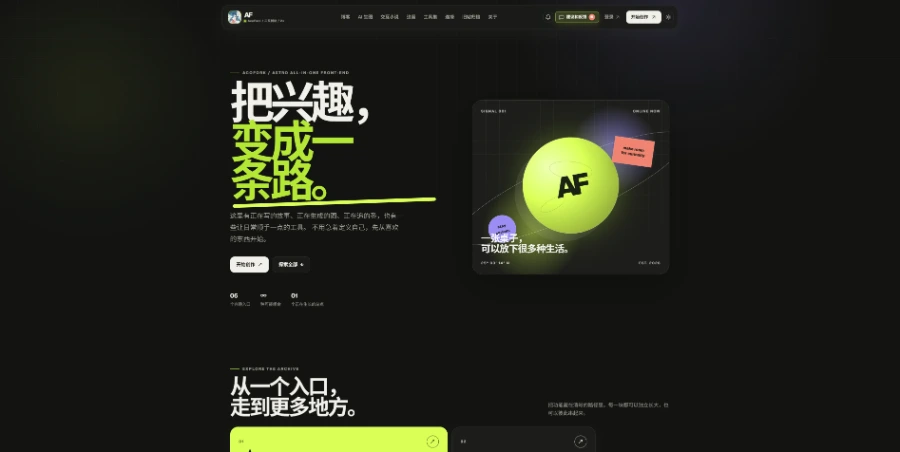
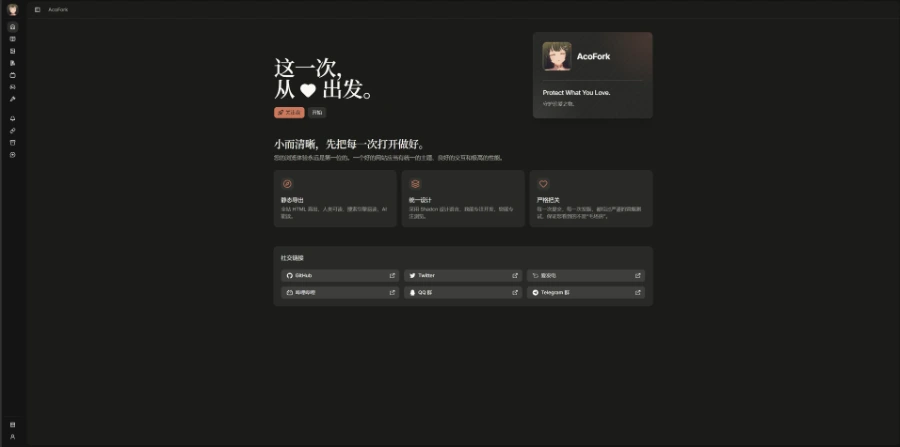
🤝 更新友链: vemiyの小站

diff --git a/src/config/friendsConfig.ts b/src/config/friendsConfig.ts
@@ -487,6 +487,16 @@ export const friendsConfig: FriendLink[] = [
 		weight: 5,
 		enabled: true,
 	},
+	{
+		title: "vemiyの小站",
+		imgurl: "https://www.vemiy.com/img/avatar.webp",
+		desc: "One more day.",
+		siteurl: "https://www.vemiy.com/",
+		image: "/assets/images/friends/vemiy.webp",
+		tags: ["Blog"],
+		weight: 5,
+		enabled: true,
+	},
 ];
 
 // 获取启用的友链并进行排序
